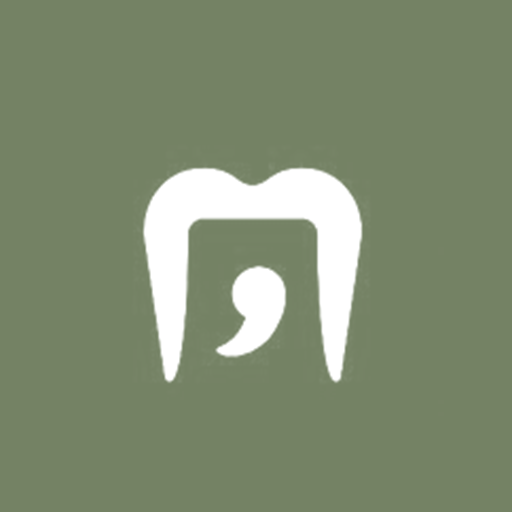
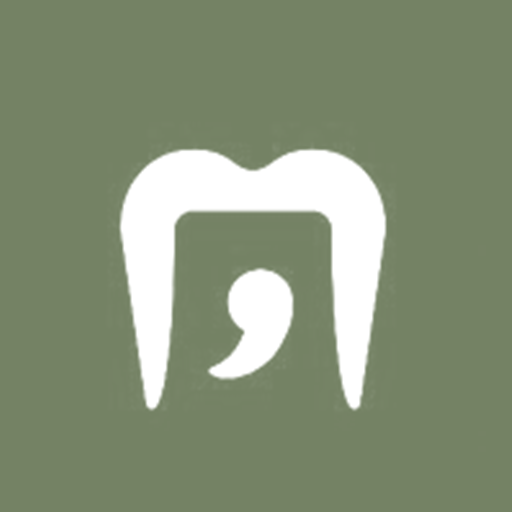
アイコンのロゴを大きく調整 (v=3)

Changed region(s): [[0.2188, 0.2812, 0.7812, 0.8125]]

diff --git a/home.html b/home.html
@@ -1,4 +1,4 @@
-
+
 
 
 
@@ -11,9 +11,9 @@
 <meta charset="UTF-8">
 <meta name="viewport" content="width=device-width, initial-scale=1.0">
 <title>手賀の歯 | tega-no-ha dental clinic</title>
-<link rel="icon" type="image/png" sizes="192x192" href="icon-192.png?v=2">
-<link rel="apple-touch-icon" sizes="180x180" href="apple-touch-icon.png?v=2">
-<link rel="manifest" href="manifest.webmanifest?v=2">
+<link rel="icon" type="image/png" sizes="192x192" href="icon-192.png?v=3">
+<link rel="apple-touch-icon" sizes="180x180" href="apple-touch-icon.png?v=3">
+<link rel="manifest" href="manifest.webmanifest?v=3">
 <meta name="theme-color" content="#f2ede3">
 <link rel="preconnect" href="https://fonts.googleapis.com">
 <link href="https://fonts.googleapis.com/css2?family=Noto+Serif+JP:wght@300;400;500&family=Noto+Sans+JP:wght@300;400&display=swap" rel="stylesheet">

diff --git a/index.html b/index.html
@@ -1,4 +1,4 @@
-
+
 
 
 
@@ -11,9 +11,9 @@
 <meta charset="UTF-8">
 <meta name="viewport" content="width=device-width, initial-scale=1.0">
 <title>手賀の歯 | tega-no-ha dental clinic</title>
-<link rel="icon" type="image/png" sizes="192x192" href="icon-192.png?v=2">
-<link rel="apple-touch-icon" sizes="180x180" href="apple-touch-icon.png?v=2">
-<link rel="manifest" href="manifest.webmanifest?v=2">
+<link rel="icon" type="image/png" sizes="192x192" href="icon-192.png?v=3">
+<link rel="apple-touch-icon" sizes="180x180" href="apple-touch-icon.png?v=3">
+<link rel="manifest" href="manifest.webmanifest?v=3">
 <meta name="theme-color" content="#f2ede3">
 <link rel="preconnect" href="https://fonts.googleapis.com">
 <link href="https://fonts.googleapis.com/css2?family=Noto+Serif+JP:wght@300;400;500&family=Noto+Sans+JP:wght@300;400&display=swap" rel="stylesheet">